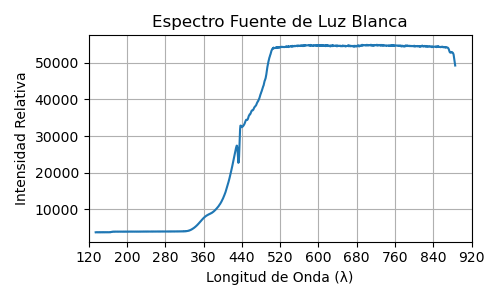
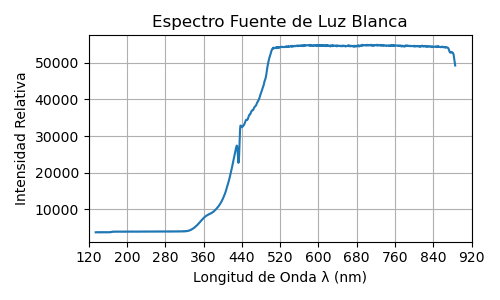
Add graphs

Changed region(s): [[0.39, 0.9, 0.75, 0.96]]

diff --git a/graphs.py b/graphs.py
@@ -1,0 +1,50 @@
+from matplotlib import pyplot as plt
+import numpy as np
+from functions import *
+
+
+
+degrees = [318.25, 317.37, 316.83, 316.62 ,315.15 ,314.3 ,313.72]
+wavelenghts = [443.755, 471.314, 492.193, 501.567, 587.562, 667.815, 686.7]
+eq = lambda x:6.0331*(x**2) - 3869.4*x + 620821
+np.vectorize(eq)
+x_axis_inter = np.linspace(313, 318.5, 100)
+interpolation = eq(x_axis_inter)
+
+
+
+fig, ax = plt.subplots(figsize=(5, 3))
+
+ax.set_title('Curva de Calibración del Helio')
+ax.set_ylabel('Longitud de Onda λ (nm)')
+ax.set_xlabel('Grados (°)')
+ax.scatter(degrees, wavelenghts)
+ax.plot(x_axis_inter, interpolation, '--', color='orange', label=r'$6.0331x^{2} - 3869.4x + 620821$')
+ax.text(317, 650, r'$r^{2} = 0.9924$', fontsize = 10)
+ax.legend(loc='upper right')
+ax.grid()
+fig.tight_layout()
+
+
+delta = np.array([53.38, 49.32, 46.55, 45.53, 45.17, 46.73, 47.65, 49.92, 50.8, 51.12])
+theta_i = np.array([40.25, 42.25, 43.75, 45.25, 47.75, 60.75, 61.25, 67, 68, 69.25])
+eq2 = lambda x: 0.0345*(x**2) - 3.7344*x + 145.53
+np.vectorize(eq2)
+theta_axis_inter = np.linspace(40, 70, 10)
+delta_inter = eq2(theta_axis_inter)
+
+print(len(theta_i), len(delta))
+fig1, ax1 = plt.subplots(figsize=(5, 3))
+
+ax1.set_title(r'Desviación Mínima $\delta$  v.s Ángulo de Incidencia $\theta_i$')
+ax1.set_ylabel(r'Desviación $\delta$ (°)')
+ax1.set_xlabel(r'Ángulo de Incidencia $\theta_i$ (°)')
+ax1.scatter(theta_i, delta)
+ax1.plot(theta_axis_inter, delta_inter, '--', color='orange', label=r'$0.0345x^{2} - 3.7344x + 145.53$')
+ax1.text(55, 51, r'$r^{2} = 0.7709$', fontsize = 10)
+ax1.legend(loc='upper right')
+ax1.grid()
+fig1.tight_layout()
+
+
+plt.show()

diff --git a/main.py b/main.py
@@ -15,7 +15,7 @@ fig, ax = plt.subplots(figsize=(5, 3))
 
 ax.set_title('Espectro Fuente de Luz Blanca')
 ax.set_ylabel('Intensidad Relativa')
-ax.set_xlabel('Longitud de Onda (λ)')
+ax.set_xlabel('Longitud de Onda λ (nm)')
 ax.plot(x, y)
 ax.grid()
 ax.set_xlim([120, 900])
@@ -25,7 +25,7 @@ fig.tight_layout()
 fig1, ax1 = plt.subplots(figsize=(5,3))
 ax1.set_title('Espectro Fuente de Luz Blanca Aplicando Filtros')
 ax1.set_ylabel('Intensidad Relativa')
-ax1.set_xlabel('Longitud de Onda (λ)')
+ax1.set_xlabel('Longitud de Onda λ (nm)')
 ax1.plot(x, red_y, label='Filtro rojo', color='red')
 ax1.plot(x, blue_y, label='Filtro azul', color='blue')
 ax1.plot(x, green_y, label='Filtro verde', color='green')
@@ -38,7 +38,7 @@ ax1.grid()
 fig2, ax2 = plt.subplots(figsize=(5,3))
 ax2.set_title('Espectro Fuente de Luz Blanca Aplicando 2 Filtros')
 ax2.set_ylabel('Intensidad Relativa')
-ax2.set_xlabel('Longitud de Onda (λ)')
+ax2.set_xlabel('Longitud de Onda λ (nm)')
 ax2.plot(x, rb_y, label='Flt. rojo-azul', color='purple')
 ax2.plot(x, bg_y, label='Flt azul-verde', color='darkturquoise')
 ax2.plot(x, rg_y, label='Flt rojo-verde', color='orange')
